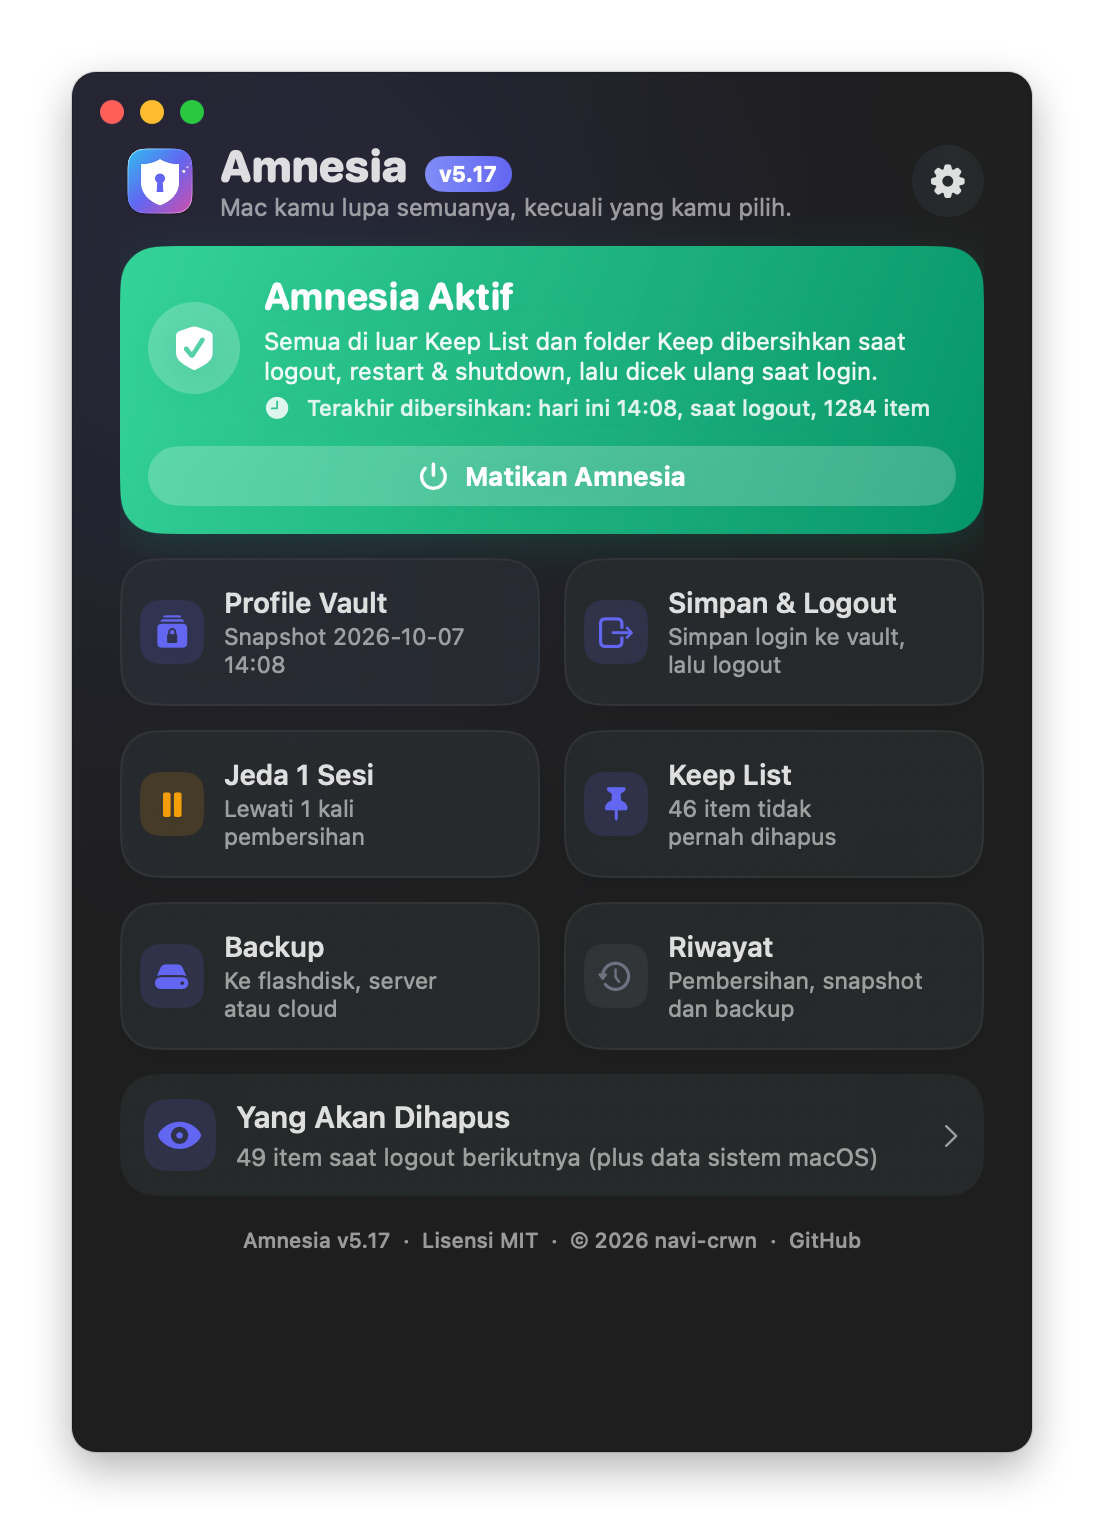
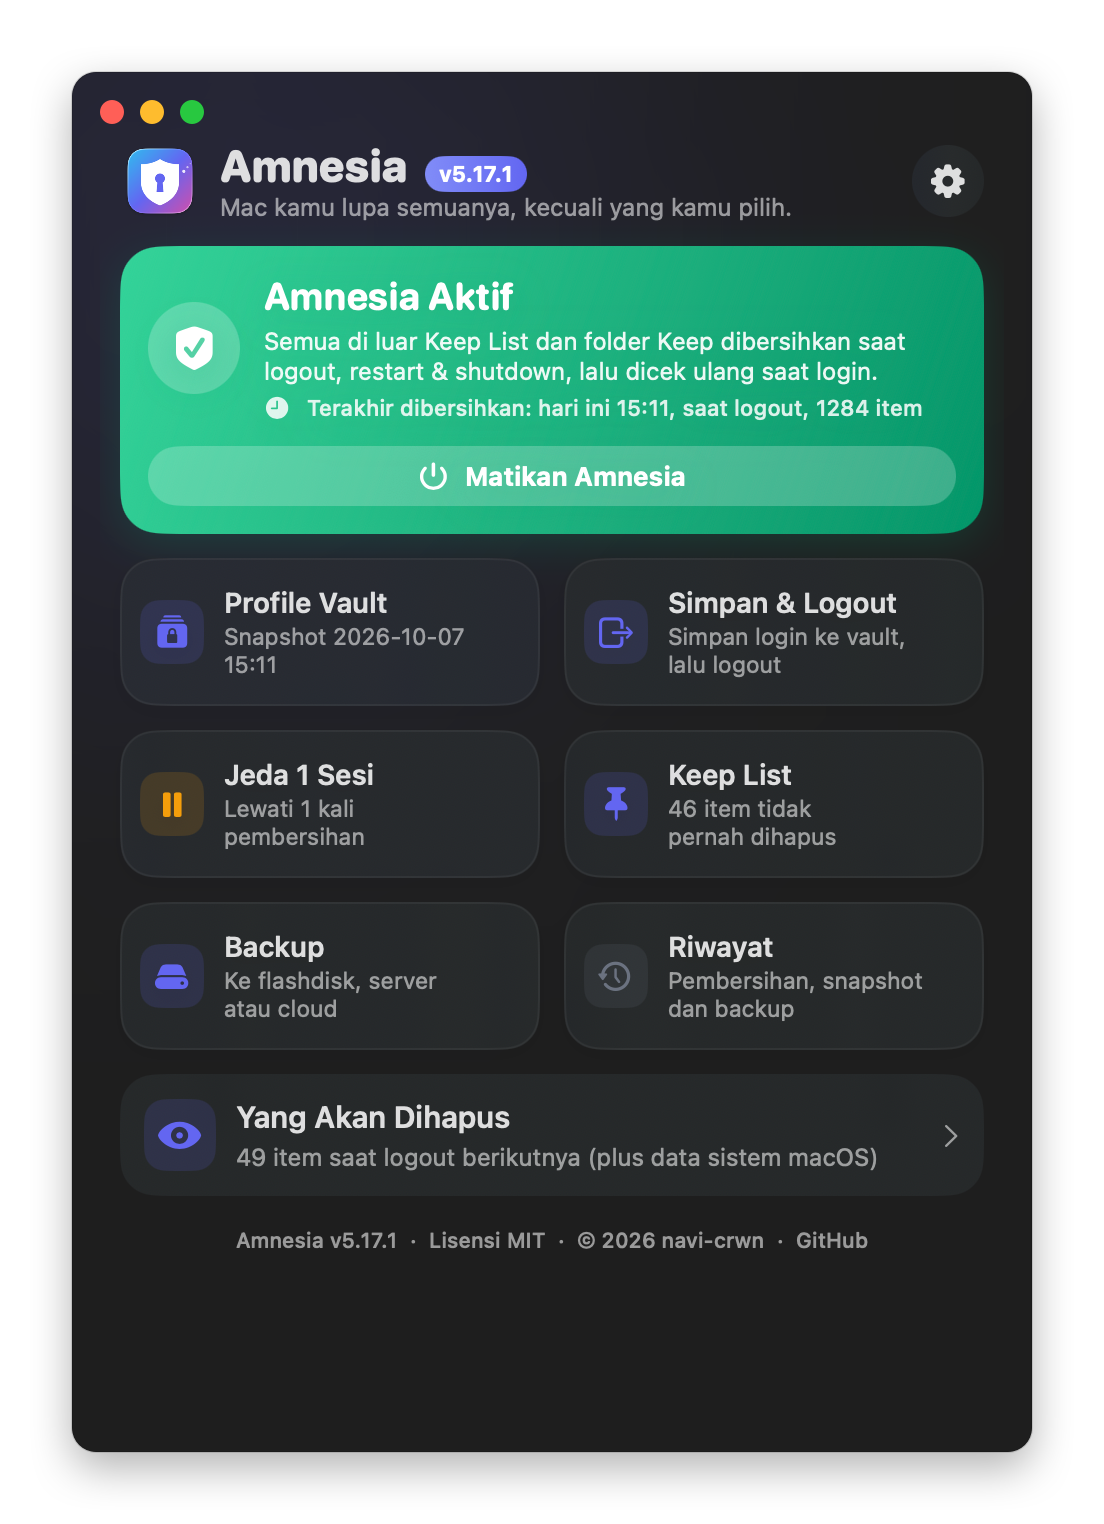
Amnesia v5.17.1 - 2026-10-07 15:13

diff --git a/app/Amnesia.swift b/app/Amnesia.swift
@@ -2356,6 +2356,24 @@ struct PillLabel<L: View>: View {
     }
 }
 
+/// v5.17.1: ScrollView dengan sedikit ruang di dalamnya. Tanpa ini, garis/bayangan/cincin fokus
+/// tombol dan kotak yang menempel ke pinggir terpotong (terutama saat di-hover).
+/// Padding negatif di luar membuat tata letak tetap sama seperti ScrollView biasa.
+struct RoomyScroll<Content: View>: View {
+    var vertical = true
+    @ViewBuilder var content: Content
+
+    var body: some View {
+        ScrollView {
+            content
+                .padding(.horizontal, 10)
+                .padding(.vertical, vertical ? 8 : 0)
+        }
+        .padding(.horizontal, -10)
+        .padding(.vertical, vertical ? -8 : 0)
+    }
+}
+
 struct Pill: ButtonStyle {
     var colors: [Color]
     func makeBody(configuration: Configuration) -> some View {
@@ -2677,7 +2695,7 @@ struct MainView: View {
     }
 
     private var home: some View {
-        ScrollView {
+        RoomyScroll {
         VStack(spacing: 12) {
             HStack(spacing: 10) {
                 Image(nsImage: NSApp.applicationIconImage).resizable().frame(width: 40, height: 40)
@@ -2813,7 +2831,7 @@ struct VaultView: View {
     static let bigMB = 500.0
 
     var body: some View {
-        ScrollView {
+        RoomyScroll {
             VStack(spacing: 14) {
                 PageHeader(title: "Profile Vault", icon: "lock.rectangle.stack.fill", colors: Pal.vault, back: back)
                 if let v = m.vault {
@@ -3553,7 +3571,7 @@ struct HistoryView: View {
     @State private var events: [HistEvent] = []
 
     var body: some View {
-        ScrollView {
+        RoomyScroll {
             VStack(spacing: 14) {
                 PageHeader(title: T("History", "Riwayat"), icon: "clock.arrow.circlepath", colors: Pal.gray, back: back)
                 Text(T("What Amnesia did and when: cleanups, snapshots, restores and backups. Only the time and the app "
@@ -3626,7 +3644,7 @@ struct MoveView: View {
     @State private var backupPw = ""
 
     var body: some View {
-        ScrollView {
+        RoomyScroll {
             VStack(spacing: 14) {
                 PageHeader(title: T("Move to a New Mac", "Pindah Mac"), icon: "arrow.left.arrow.right", colors: Pal.backup, back: back)
                 Card {
@@ -3814,7 +3832,7 @@ struct KeepView: View {
                          "Yang ada di sini TIDAK dihapus saat logout. Folder Keep kamu dan ~/.amnesia selalu aman."))
                 .frame(maxWidth: .infinity, alignment: .leading)
             KeepFolderCard()
-            ScrollView {
+            RoomyScroll(vertical: false) {
                 LazyVStack(spacing: 8) {
                     AppleKeepCard { entries = Keep.entries() }
                     ForEach(entries.filter { !applePaths.contains($0) }, id: \.self) { e in row(e) }
@@ -4125,7 +4143,7 @@ struct AppPickList: View {
     @State private var sizes: [String: String] = [:]
 
     var body: some View {
-        ScrollView {
+        RoomyScroll(vertical: false) {
             LazyVStack(spacing: 6) {
                 ForEach(apps) { a in row(a) }
             }
@@ -4746,6 +4764,7 @@ struct RestoreFilesSheet: View {
         }
         .padding(22)
         .frame(width: 520)
+        .tint(Pal.ink)
         .onAppear { roots = job.items.filter { r in !job.items.contains { r.path.hasPrefix($0.path + "/") } } }
     }
 
@@ -4929,7 +4948,7 @@ struct BackupView: View {
     }
 
     var body: some View {
-        ScrollView {
+        RoomyScroll {
             VStack(spacing: 14) {
                 PageHeader(title: "Backup", icon: "externaldrive.fill", colors: Pal.backup, back: back)
                     .overlay(alignment: .trailing) {
@@ -5734,7 +5753,7 @@ struct SettingsView: View {
     @State private var atLogin = Setting.openAtLogin.isOn
 
     var body: some View {
-        ScrollView {
+        RoomyScroll {
             VStack(spacing: 14) {
                 PageHeader(title: T("Settings", "Pengaturan"), icon: "gearshape.fill", colors: Pal.gray, back: back)
                 language
@@ -5944,7 +5963,7 @@ struct PreviewView: View {
                     Button { m.updateReport() } label: { Label(T("Refresh", "Muat ulang"), systemImage: "arrow.clockwise") }
                         .buttonStyle(.plain).font(.system(size: 11, weight: .semibold)).disabled(m.reportBusy)
                 }
-                ScrollView {
+                RoomyScroll(vertical: false) {
                     LazyVStack(spacing: 8) {
                         ForEach(shown) { grp in group(grp) }
                         if hiddenCount > 0 {

diff --git a/CHANGELOG.md b/CHANGELOG.md
@@ -5,6 +5,12 @@
 Every change to Amnesia is written down here, newest first.
 You can see the version number in the app too (next to the title and at the bottom of the menu bar panel).
 
+## v5.17.1 — 2026-10-07
+
+### Fixed
+- **Buttons and tiles no longer get cut off at the edges.** On every page (home, Profile Vault, Backup, Settings, History, Move Mac, the Keep List and the What Gets Deleted list), anything touching the left or right edge had its border, shadow or focus ring clipped, most visible when you hovered a tile in the right column. The scroll areas now leave a little room inside, and the layout looks the same as before.
+- **Restore Files window** uses the Amnesia indigo for its main button instead of your Mac's accent color, so it matches the rest of the app.
+
 ## v5.17 — 2026-10-07
 
 ### Added

diff --git a/CHANGELOG.id.md b/CHANGELOG.id.md
@@ -5,6 +5,12 @@
 Semua perubahan Amnesia dicatat di sini. Versi terbaru ada di paling atas.
 Nomor versi juga terlihat di app (di samping judul dan di bawah menu bar).
 
+## v5.17.1 — 2026-10-07
+
+### Diperbaiki
+- **Tombol dan kotak tidak terpotong lagi di pinggir.** Di semua halaman (beranda, Profile Vault, Backup, Pengaturan, Riwayat, Pindah Mac, Keep List dan daftar Yang Akan Dihapus), apa pun yang menempel ke pinggir kiri atau kanan terpotong garis, bayangan atau cincin fokusnya, paling kelihatan saat kotak di kolom kanan di-hover. Sekarang area scroll memberi sedikit ruang di dalamnya, dan tata letaknya tetap sama.
+- **Jendela Pulihkan File** memakai warna indigo Amnesia untuk tombol utamanya, bukan warna aksen Mac kamu, supaya serasi dengan bagian app lainnya.
+
 ## v5.17 — 2026-10-07
 
 ### Baru
